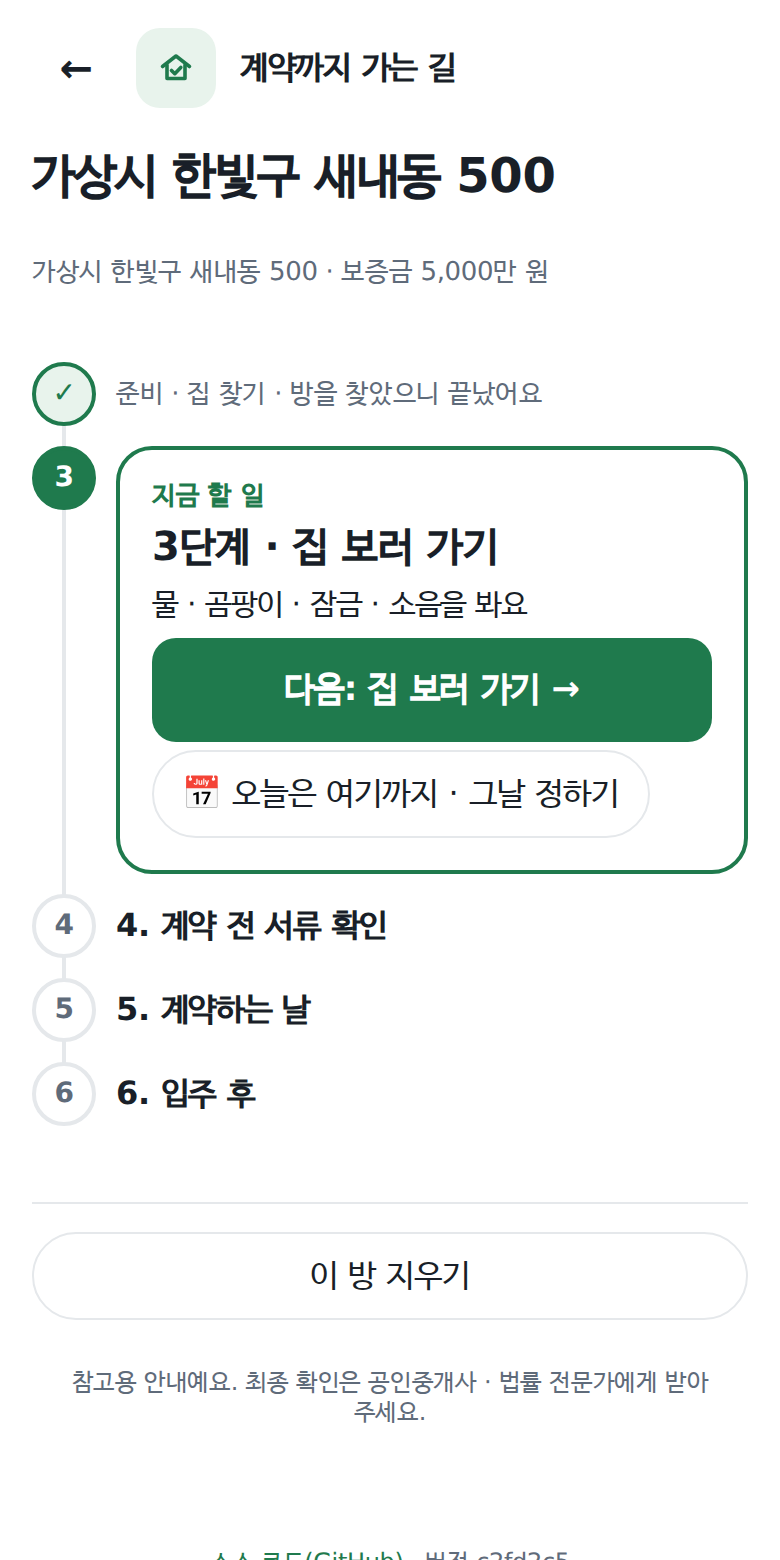
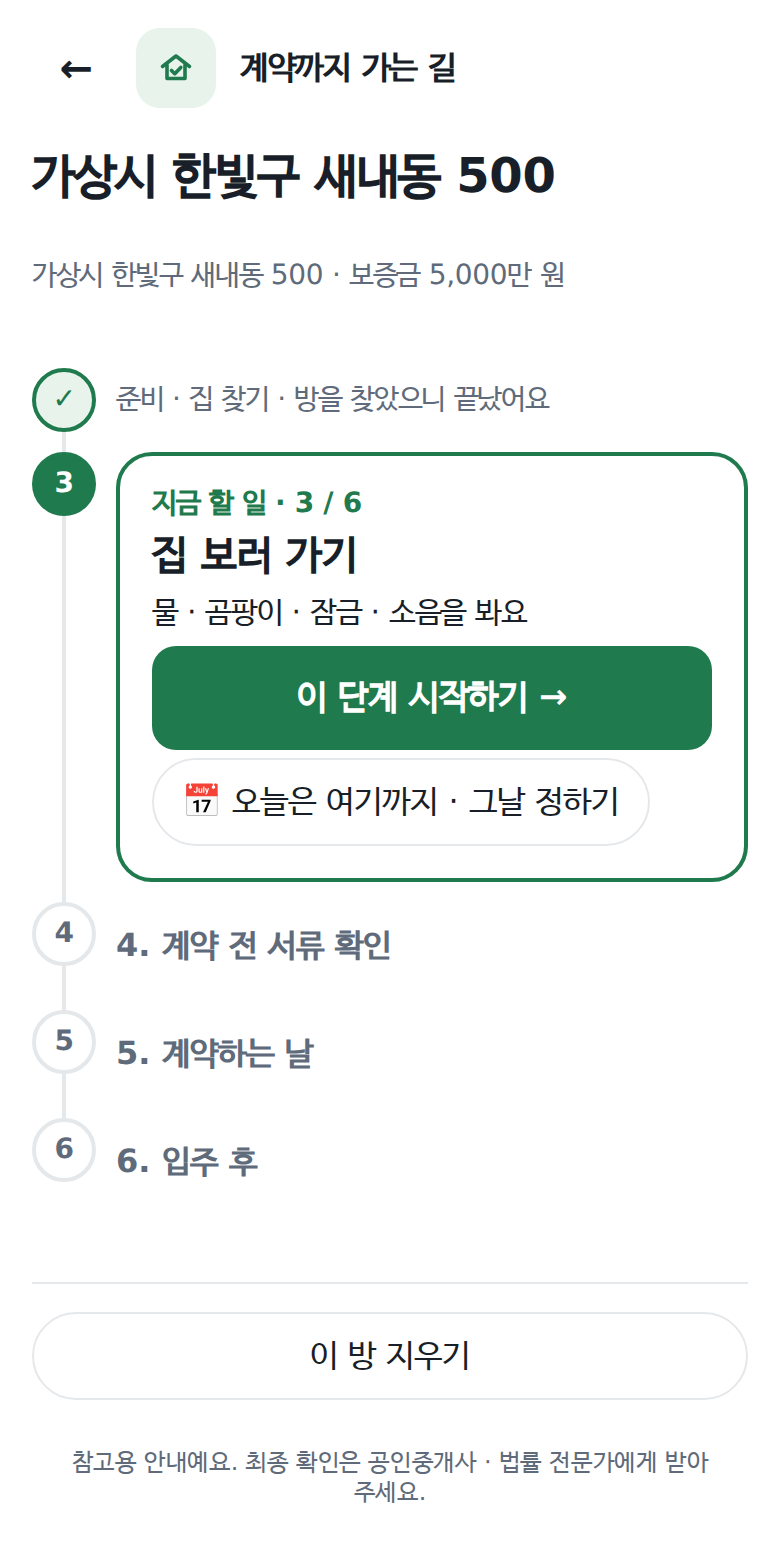
README 화면 사진을 UX 정리 뒤 화면으로 다시 찍고, 바뀐 버튼 이름 반영
무엇을: docs/img 4장을 ca0b573 배포본에서 다시 찍고, README · 기능 문서의 방 화면 버튼 이름을 '이 단계 시작하기 →'로.

diff --git a/README.md b/README.md
@@ -39,7 +39,7 @@
 | 예시 서류 4 (전세) | [글자 PDF](https://github.com/dlwodns/home-check/raw/main/samples/pdf/D_jeonse.pdf) | 다가구 | 🟡 주의 (74%) | 전세 보증금도 같은 식으로 계산 |
 | 예시 서류 5 (아파트) | [글자 PDF](https://github.com/dlwodns/home-check/raw/main/samples/pdf/E_apartment.pdf) · [**그림 PDF**](https://github.com/dlwodns/home-check/raw/main/samples/pdf/E_apartment_scan.pdf) | 집합건물 | 🟢 안전 (60%) | 표제부 2개 · 대지권 · 부기(2-1) · 말소 실선이 있는 실제 양식 |
 
-**② 2분: 실제처럼 끝까지** — [시작하기] → '해 봤어요 · 바로 방 담기' → 주소 '새내동 500' · 보증금 50,000,000 → 방 화면 '다음: 집 보러 가기 →' → '다음: 계약 전 서류 확인 →' → '다음: 등기부등본 점검 →' → 위 표의 **PDF를 내려받아 'PDF 올리기'** → 내 계약 정보(시세 600,000,000 · 집주인 윤서진) → 결과 → '다음: 결과에 맞춘 할 일 →'(질문 · 특약 · 요청 목록) → 5단계에서 같은 요청 목록이 이어집니다. 예시 버튼으로 채운 결과는 방에 저장하지 않고, 올린 PDF 결과만 저장합니다.
+**② 2분: 실제처럼 끝까지** — [시작하기] → '해 봤어요 · 바로 방 담기' → 주소 '새내동 500' · 보증금 50,000,000 → 방 화면 '이 단계 시작하기 →' → '다음: 계약 전 서류 확인 →' → '다음: 등기부등본 점검 →' → 위 표의 **PDF를 내려받아 'PDF 올리기'** → 내 계약 정보(시세 600,000,000 · 집주인 윤서진) → 결과 → '다음: 결과에 맞춘 할 일 →'(질문 · 특약 · 요청 목록) → 5단계에서 같은 요청 목록이 이어집니다. 예시 버튼으로 채운 결과는 방에 저장하지 않고, 올린 PDF 결과만 저장합니다.
 
 **③ 그림(스캔) PDF**: 인터넷등기소 열람용 PDF는 글자 없는 그림이라, 휴대폰 안에서 OCR로 읽은 뒤 판정에 쓰는 값마다 원본 조각을 옆에 보여 주는 '원본과 맞춰 보기'를 거칩니다. [그림 PDF](https://github.com/dlwodns/home-check/raw/main/samples/pdf/E_apartment_scan.pdf)를 올리면 놓친 기록을 알려 주는 경고(**"갑구에 소유권 이전(거래가액)이 2번 보이는데 읽은 건 1번"**)도 볼 수 있습니다. 원본 조각대로 집주인을 '윤서진'으로 맞추고 [원본과 같아요]를 누르면 예시 서류 5와 같은 결과가 나옵니다.
 
@@ -67,7 +67,7 @@
 
 한 길(one way)로 갑니다: **방 담기 → 방 화면(길) → 3단계 집 보러 가기 → 4단계 계약 전 서류 확인(여기서 등기부 점검) → 5단계 계약하는 날 → 6단계 입주 후**. 화면마다 맨 위 ←는 방금 보던 화면으로(브라우저 '뒤로'와 같음), 맨 아래는 '← 이전 · 다음: ○○ →'. 갈래는 질문으로만 받습니다(처음이에요 / 해 봤어요 · 4단계의 '이 방, 어떻게 계약해요?' · 위험이면 '이 방 그만 보기').
 
-1. **방 담기**: '방 담기' → 주소 · 보증금/월세 · (선택) 매물 링크 · 메모. 방을 찾았으니 1 · 2단계는 끝난 것으로 치고 방 화면에 '다음: 집 보러 가기 →' 버튼 하나가 보입니다.
+1. **방 담기**: '방 담기' → 주소 · 보증금/월세 · (선택) 매물 링크 · 메모. 방을 찾았으니 1 · 2단계는 끝난 것으로 치고 방 화면에 '이 단계 시작하기 →' 버튼 하나가 보입니다.
 2. **4단계에서 등기부등본 올리기**: [인터넷등기소](https://www.iros.go.kr)에서 뗀 등기부등본 PDF를 올리거나 글자를 붙여 넣습니다(열람 1,100원, 떼는 순서는 앱 안에 안내). 그림(스캔) PDF도 휴대폰 안에서 글자를 읽고, 원본 조각과 맞춰 본 뒤에 판정합니다.
 3. **내 계약 정보 넣기**: 내 보증금(필수) · 앞선 세입자 보증금 · 건물 시세 · 집주인 이름(계약서에 서명할 사람). 선택 칸은 비워 둬도 됩니다('모름'으로 따로 알림).
 4. **결과 보기**: 안전 · 주의 · 위험 신호등, 이유마다 '무슨 뜻 · 왜 위험 · 할 일'과 근거 링크, 등기부로는 알 수 없는 것
@@ -181,7 +181,7 @@ npm test                 # 자동 테스트
 
 | 기능 | 상태 | 배포본에서 확인하는 곳 · 뺀 것과 이유 |
 | --- | --- | --- |
-| F4 내 후보 방 (중심) | 됨 | 방 화면 = **한 길**: 6단계를 세로 한 줄로, 지금 단계만 펼쳐 '다음: ○○ →' 버튼 하나와 **그날 정하기**('○○날 만나요' · 홈 D-day · 휴대폰 캘린더 추가). 끝낸 단계는 다시 보기, 아직 안 온 단계는 잠김. 점검 결과 · 계약 방법 · 질문 · 서류 · 상담은 그 일을 하는 단계 안에(4 · 5단계) |
+| F4 내 후보 방 (중심) | 됨 | 방 화면 = **한 길**: 6단계를 세로 한 줄로, 지금 단계만 펼쳐 '이 단계 시작하기' 버튼 하나와 **그날 정하기**('○○날 만나요' · 홈 D-day · 휴대폰 캘린더 추가). 끝낸 단계는 다시 보기, 아직 안 온 단계는 잠김. 점검 결과 · 계약 방법 · 질문 · 서류 · 상담은 그 일을 하는 단계 안에(4 · 5단계) |
 | F2 등기부등본 점검 | 됨 | `/check` 글자 붙여 넣기 · 글자 PDF · 그림(스캔) PDF(OCR) |
 | F3 다음 행동 카드 | 됨 | 4단계 '결과에 맞춘 할 일'(방 없이 점검하면 결과 아래): 물어볼 질문 · 할 일 · 특약 예시 · 가족 요약(복사 · 공유) · 요청 목록. 4단계에서 중개사 / 직거래를 고르면 그 갈래의 질문 · 할 일이 맨 앞에 붙고, 질문 · 할 일마다 **알아낸 것을 적어 두고 그 옆에서 다시 점검** |
 | F1 계약 6단계 길잡이 | 됨 | `/steps` 중개 / 직거래 갈래별 체크리스트, 용어 말풍선, 항목마다 근거 링크 |

diff --git a/docs/FEATURES.md b/docs/FEATURES.md
@@ -3,7 +3,7 @@
 화면별로 무엇을 하는지 자세히 적은 문서입니다. 요약은 [README](../README.md)에 있습니다.
 
 - **입구** (`/` 처음 방문): 로고가 그려지고 '이 방, 계약해도 될까?' + **[시작하기]** 버튼 하나, 아래 작은 '등기부등본만 바로 점검'. 시작하면 "계약 과정, 먼저 볼까요?" → 처음이에요(계약 과정 미리보기: 그림 6장 → 방 담기 또는 방 찾기부터) / 해 봤어요(미리보기 없이 바로 방 담기, 단계는 빼지 않음). 다시 온 사람도 앱을 새로 열 때마다(탭마다 한 번) 이 입구가 누를 때까지 떠 있고, 시작하기 → '계약 과정, 다시 볼까요?'(계약 과정 미리보기 / 건너뛰기 → 내 후보 방). 왼쪽 위 홈체크 로고를 누르면 새로고침되며 입구부터 다시. 홈체크 소개는 `/welcome`
-- **내 후보 방 = 한 길** (`/` → `/rooms/new` → `/room?id=…` → `/steps/3`–`6?room=…`): 홈에서 관심 있는 방을 주소 · 보증금/월세 · (선택) 링크 · 메모로 담음. 방 화면은 6단계를 세로 한 줄로 보여 주고(방을 찾았으니 1 · 2단계는 '끝났어요'), 지금 단계만 펼쳐 '다음: ○○ →' 버튼 하나 · 그날 정하기. 끝낸 단계는 '다시 보기', 아직 안 온 단계는 잠김(앞 단계부터). 맨 위 ←는 브라우저 '뒤로'처럼 방금 보던 화면으로(링크로 바로 들어왔으면 방으로), 아래는 '← 이전 · 다음: ○○ →'(마지막은 '완료 · 방으로'). 3단계 안에 동네 시세, 4단계 안에 등기부 점검(결과 신호등) · '이 방 어떻게 계약해요?'(중개사 · 직거래) · 물어볼 말 · 특약 · 알아낸 것 적기 · 받을 서류, 5단계 안에 계약하는 날 챙길 것 · 상담 전화. 방 안에서 6단계 목록(`/steps`)을 열면 방 화면으로 보냄. 방에서 점검하면 **판정 요약만** 그 방에 저장(등기부 원문 · 집주인 이름은 저장하지 않음)
+- **내 후보 방 = 한 길** (`/` → `/rooms/new` → `/room?id=…` → `/steps/3`–`6?room=…`): 홈에서 관심 있는 방을 주소 · 보증금/월세 · (선택) 링크 · 메모로 담음. 방 화면은 6단계를 세로 한 줄로 보여 주고(방을 찾았으니 1 · 2단계는 '끝났어요'), 지금 단계만 펼쳐 '이 단계 시작하기' 버튼 하나 · 그날 정하기. 끝낸 단계는 '다시 보기', 아직 안 온 단계는 잠김(앞 단계부터). 맨 위 ←는 브라우저 '뒤로'처럼 방금 보던 화면으로(링크로 바로 들어왔으면 방으로), 아래는 '← 이전 · 다음: ○○ →'(마지막은 '완료 · 방으로'). 3단계 안에 동네 시세, 4단계 안에 등기부 점검(결과 신호등) · '이 방 어떻게 계약해요?'(중개사 · 직거래) · 물어볼 말 · 특약 · 알아낸 것 적기 · 받을 서류, 5단계 안에 계약하는 날 챙길 것 · 상담 전화. 방 안에서 6단계 목록(`/steps`)을 열면 방 화면으로 보냄. 방에서 점검하면 **판정 요약만** 그 방에 저장(등기부 원문 · 집주인 이름은 저장하지 않음)
 - **계약 단계 길잡이** (`/steps` → `/steps/1`–`6`, 계약 방법은 4단계 안에서 고름): 방이 없을 때 1 · 2단계를 하는 곳(2단계 다음은 방 담기). 6단계 진행률과 '지금 할 차례', 단계별 체크리스트. 4단계(계약 전 서류 확인)에서 '방, 어디서 찾았어요?'(중개사 · 직거래)를 고르면 그 갈래의 체크리스트가 붙음. 체크한 내용은 이 브라우저에 저장(로그인하면 계정에도 저장)
 - **용어 말풍선**: 근저당 · 확정일자 · 전입신고 같은 용어는 연한 초록 배경 + 점선 밑줄. 누르면 단어 옆에 작은 말풍선으로 뜻과 근거 링크(용어 사전 `data/glossary.json`). 한 번에 하나만 열리고, 바깥을 누르거나 Esc로 닫힘. 한 번 본 단어는 옅게, 처음 한 번만 "초록 점선 단어를 누르면 뜻이 나와요" 안내. PC에서는 마우스를 올려도 보임. 다 아는 사람은 '다 알아요 · 끄기'로 밑줄을 끄고, 진행 화면에서 다시 켤 수 있음
 - **점검 결과 화면**: 신호등(위험 · 주의 · 안전) + 큰 제목("계약 전에 확인할 것이 N가지 있어요") → 확인할 것 → 괜찮은 점(초록) → 참고. 못 읽은 칸이 있으면 '괜찮은 점'을 보여 주지 않음
